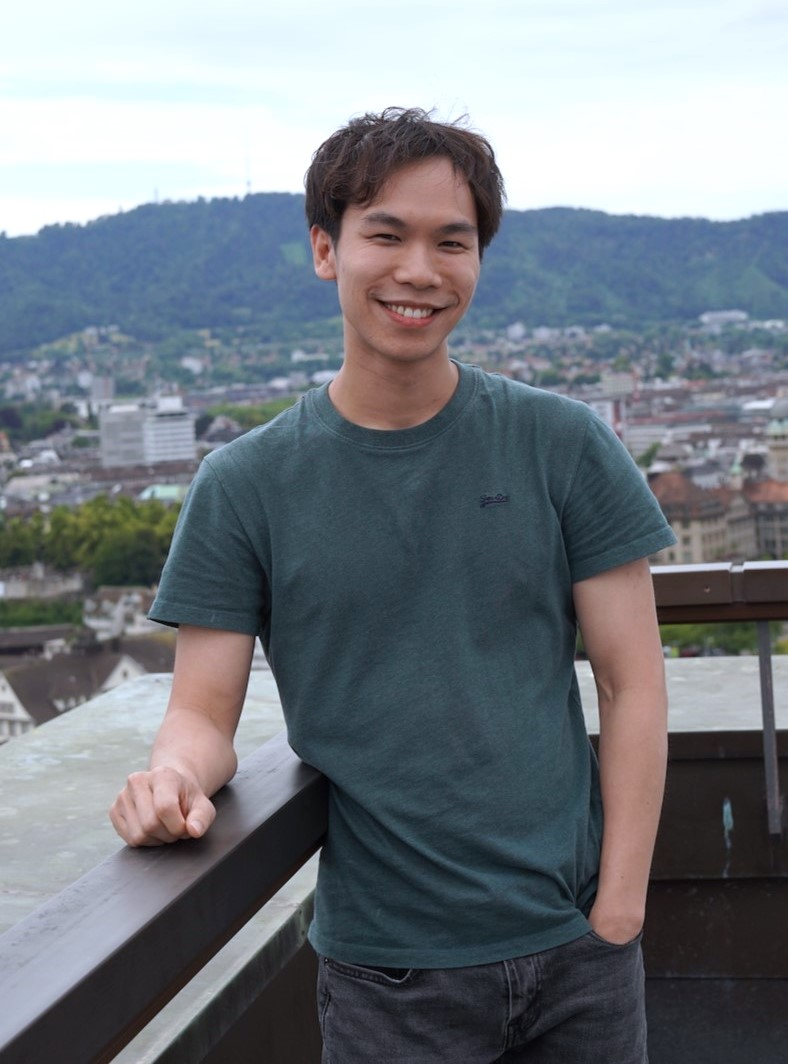
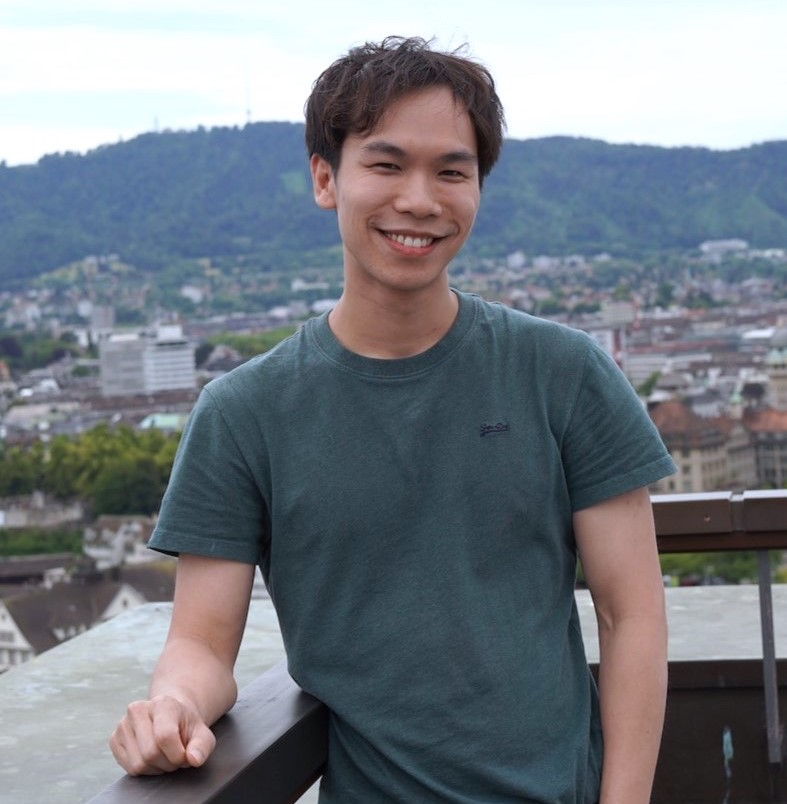
Update homepage, abstracts, contact links, photo

diff --git a/docs/_includes/footer.html b/docs/_includes/footer.html
@@ -1,0 +1,30 @@
+<!-- <footer class="site-footer h-card">
+  <data class="u-url" href="{{ "/" | relative_url }}"></data>
+
+  <div class="wrapper">
+
+    <p>
+      <a href="mailto:{{ site.email }}">
+        ✉ {{ site.email }}
+      </a>
+      &nbsp; · &nbsp;
+
+      <a href="https://scholar.google.com/citations?user=fyboKJcAAAAJ&hl=en">
+        <img
+          src="https://scholar.google.com/favicon.ico"
+          style="width:16px; height:16px; vertical-align:text-bottom;"
+          alt="">
+        Google Scholar
+      </a>
+      &nbsp; · &nbsp;
+
+      <a href="https://www.linkedin.com/in/mikeblaw/">
+        <svg class="svg-icon">
+          <use xlink:href="{{ '/assets/minima-social-icons.svg#linkedin' | relative_url }}"></use>
+        </svg>
+        LinkedIn
+      </a>
+    </p>
+
+  </div>
+</footer> -->
